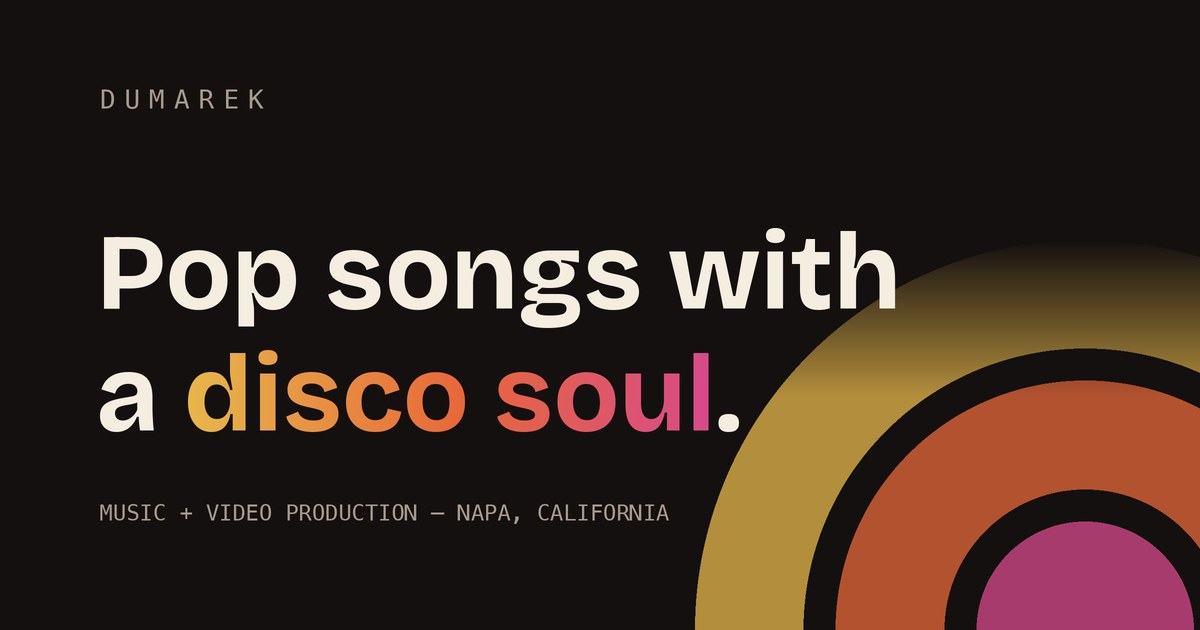
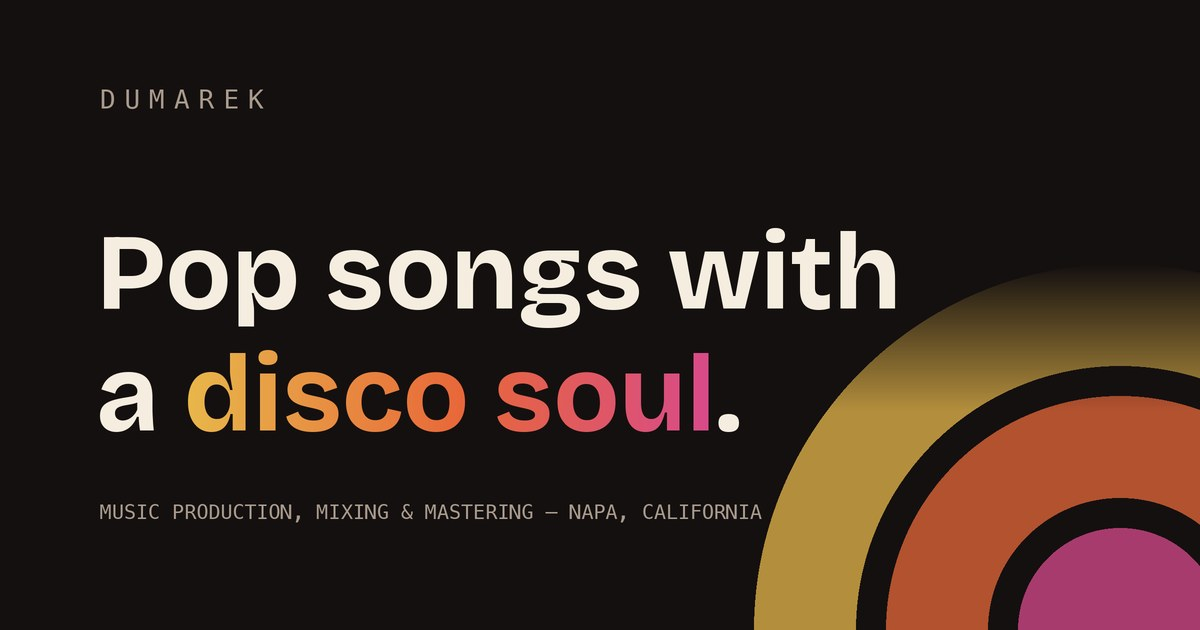
og card: revise tagline to Music Production, Mixing & Mastering

Changed region(s): [[0.0925, 0.4222, 1.0, 1.0], [0.9558, 0.4222, 1.0, 0.4524]]

diff --git a/COPY.md b/COPY.md
@@ -22,8 +22,8 @@ _Source: `src/layouts/Base.astro` (description, social tags),
   "Dumarek" — full-service music and video production studio in Napa;
   founder Phillip Dumarek; links to Instagram, Spotify.
 - **Share image (og:image):** branded 1200×630 card at `public/og.jpg` —
-  sunburst, wordmark, "Pop songs with a disco soul.", "Music + video
-  production — Napa, California"
+  sunburst, wordmark, "Pop songs with a disco soul.", "Music Production,
+  Mixing & Mastering — Napa, California"
 
 ---
 